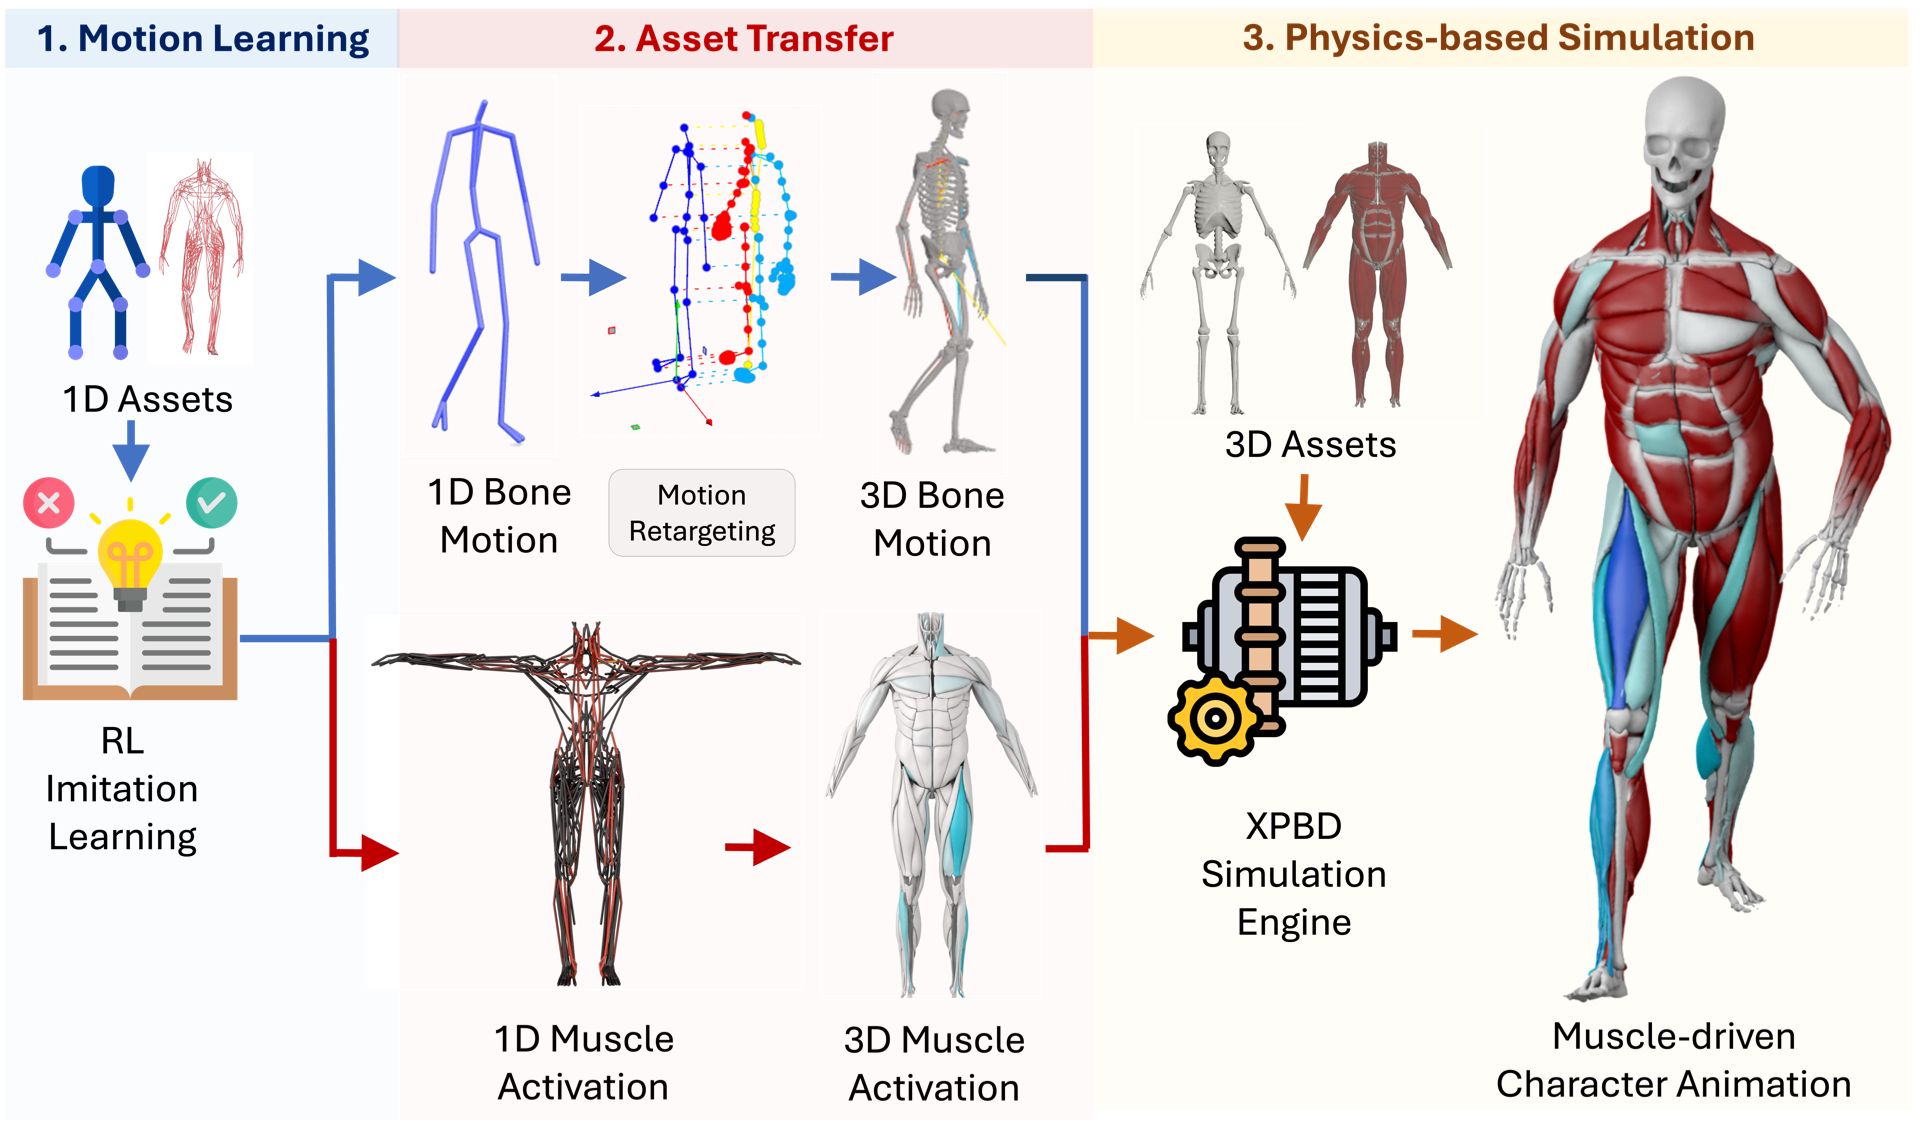
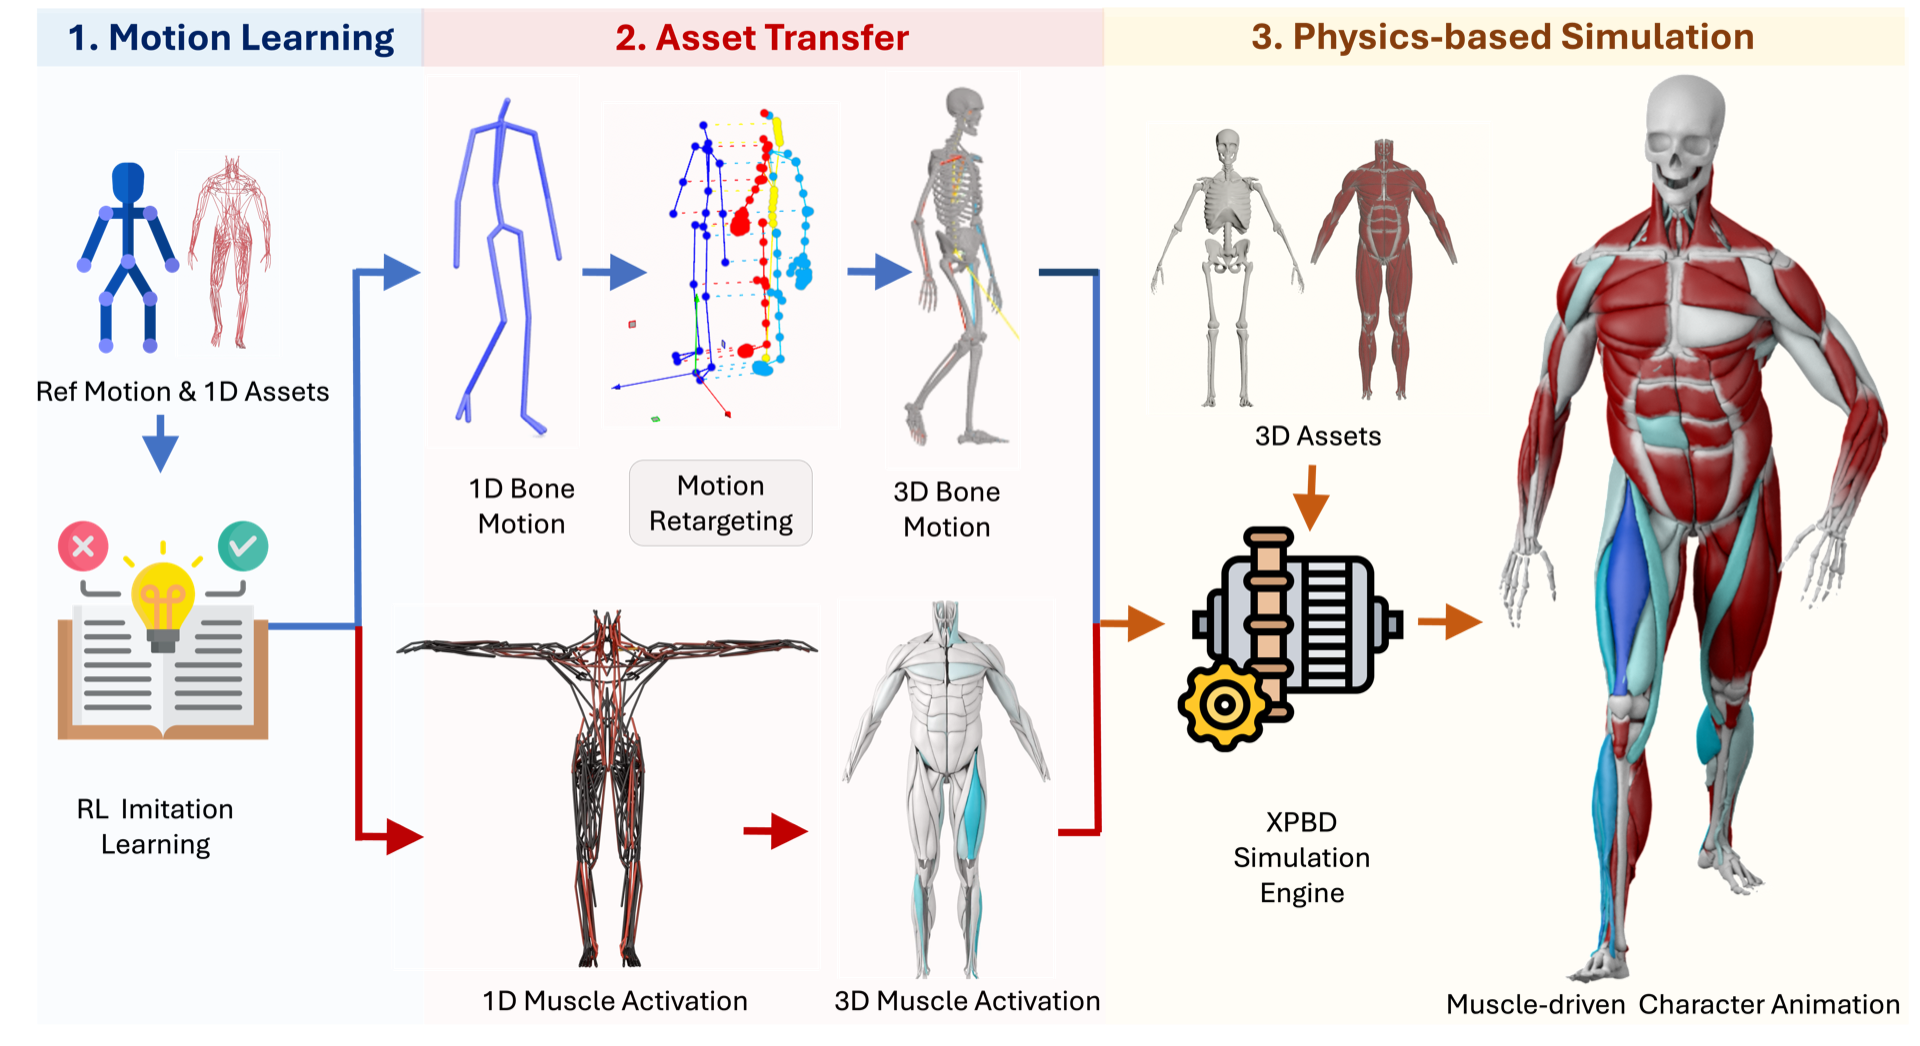
page: add performance table, refresh figures from the paper repo
Pick up the replaced rl-pipeline.png plus the teaser and pipeline figures,
all re-edited in rlmusclePaper today. Add the runtime table (Table 'perf').

diff --git a/index.html b/index.html
@@ -378,6 +378,38 @@
       </div>
     </div>
   </section>
+  <section class="hero is-small is-light">
+    <div class="hero-body">
+      <div class="container is-max-desktop">
+        <h2 class="title is-3 has-text-centered">Performance</h2>
+        <div class="columns is-centered">
+          <div class="column is-three-quarters">
+            <table class="table is-fullwidth is-hoverable">
+              <thead>
+                <tr><th>Quantity</th><th class="has-text-right">Value</th></tr>
+              </thead>
+              <tbody>
+                <tr><td>GPU</td><td class="has-text-right">RTX&nbsp;4090</td></tr>
+                <tr><td>Features</td><td class="has-text-right">collision, multigrid, fiber</td></tr>
+                <tr><td>Substeps</td><td class="has-text-right">10</td></tr>
+                <tr><td>Timestep &Delta;t</td><td class="has-text-right">1/24&nbsp;s</td></tr>
+                <tr><td>Vertices</td><td class="has-text-right">172,717</td></tr>
+                <tr><td>Tetrahedra</td><td class="has-text-right">468,162</td></tr>
+                <tr><td>Simulation (no export)</td><td class="has-text-right">18&nbsp;ms/frame</td></tr>
+                <tr><td style="padding-left:2rem;">collision / other</td><td class="has-text-right">11&nbsp;ms / 7&nbsp;ms per frame</td></tr>
+                <tr><td>Simulation (USD export)</td><td class="has-text-right">32&nbsp;ms/frame</td></tr>
+                <tr><td>Peak GPU memory</td><td class="has-text-right">&approx;&nbsp;98&nbsp;MiB</td></tr>
+              </tbody>
+            </table>
+          </div>
+        </div>
+        <h2 class="subtitle has-text-centered">
+          Runtime of the full-body volumetric simulation over 50 frames.
+          Peak GPU memory excludes the &approx;&nbsp;386&nbsp;MiB CUDA/Warp context.
+        </h2>
+      </div>
+    </div>
+  </section>
   <!-- End results -->
 
   <!-- BibTex citation -->
